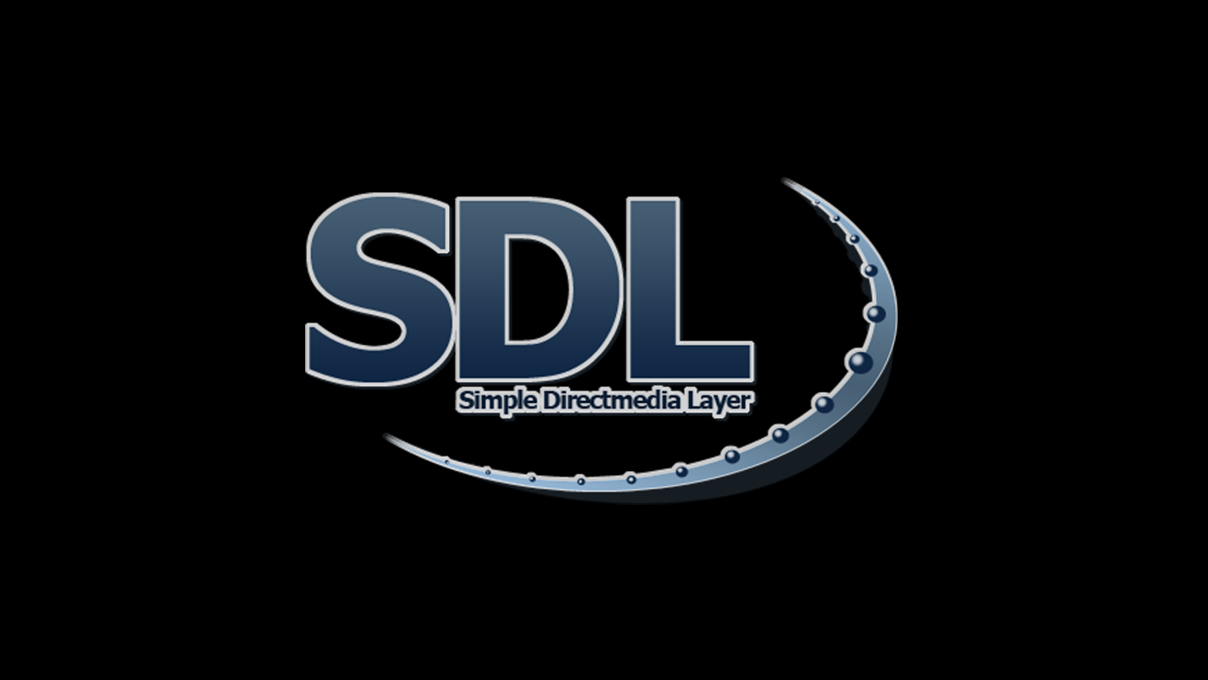
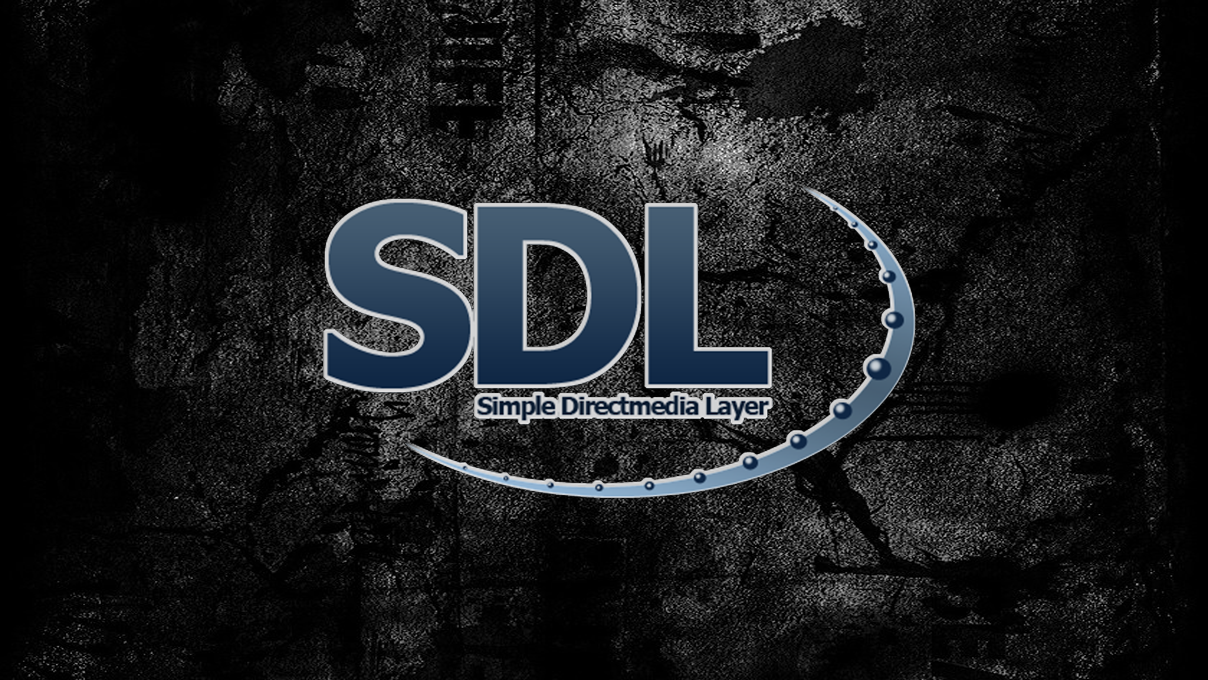
Front end

diff --git a/source/features/RenderWorld/renderworld.cpp b/source/features/RenderWorld/renderworld.cpp
@@ -53,6 +53,13 @@ SDL_Surface *render_World(){
     SDL_Flip(screen);
     SDL_Delay(3000);
 
+    string cinco = "source/features/RenderWorld/images/TelaJogo.png";
+    SDL_Surface *end5 = load_Image(cinco, screen);
+    BlitImage(screen, preta, 0, 0);
+    BlitImage(screen, end5, 0, 0);
+    SDL_Flip(screen);
+    SDL_Delay(3000);
+
 
     return screen;
 }
